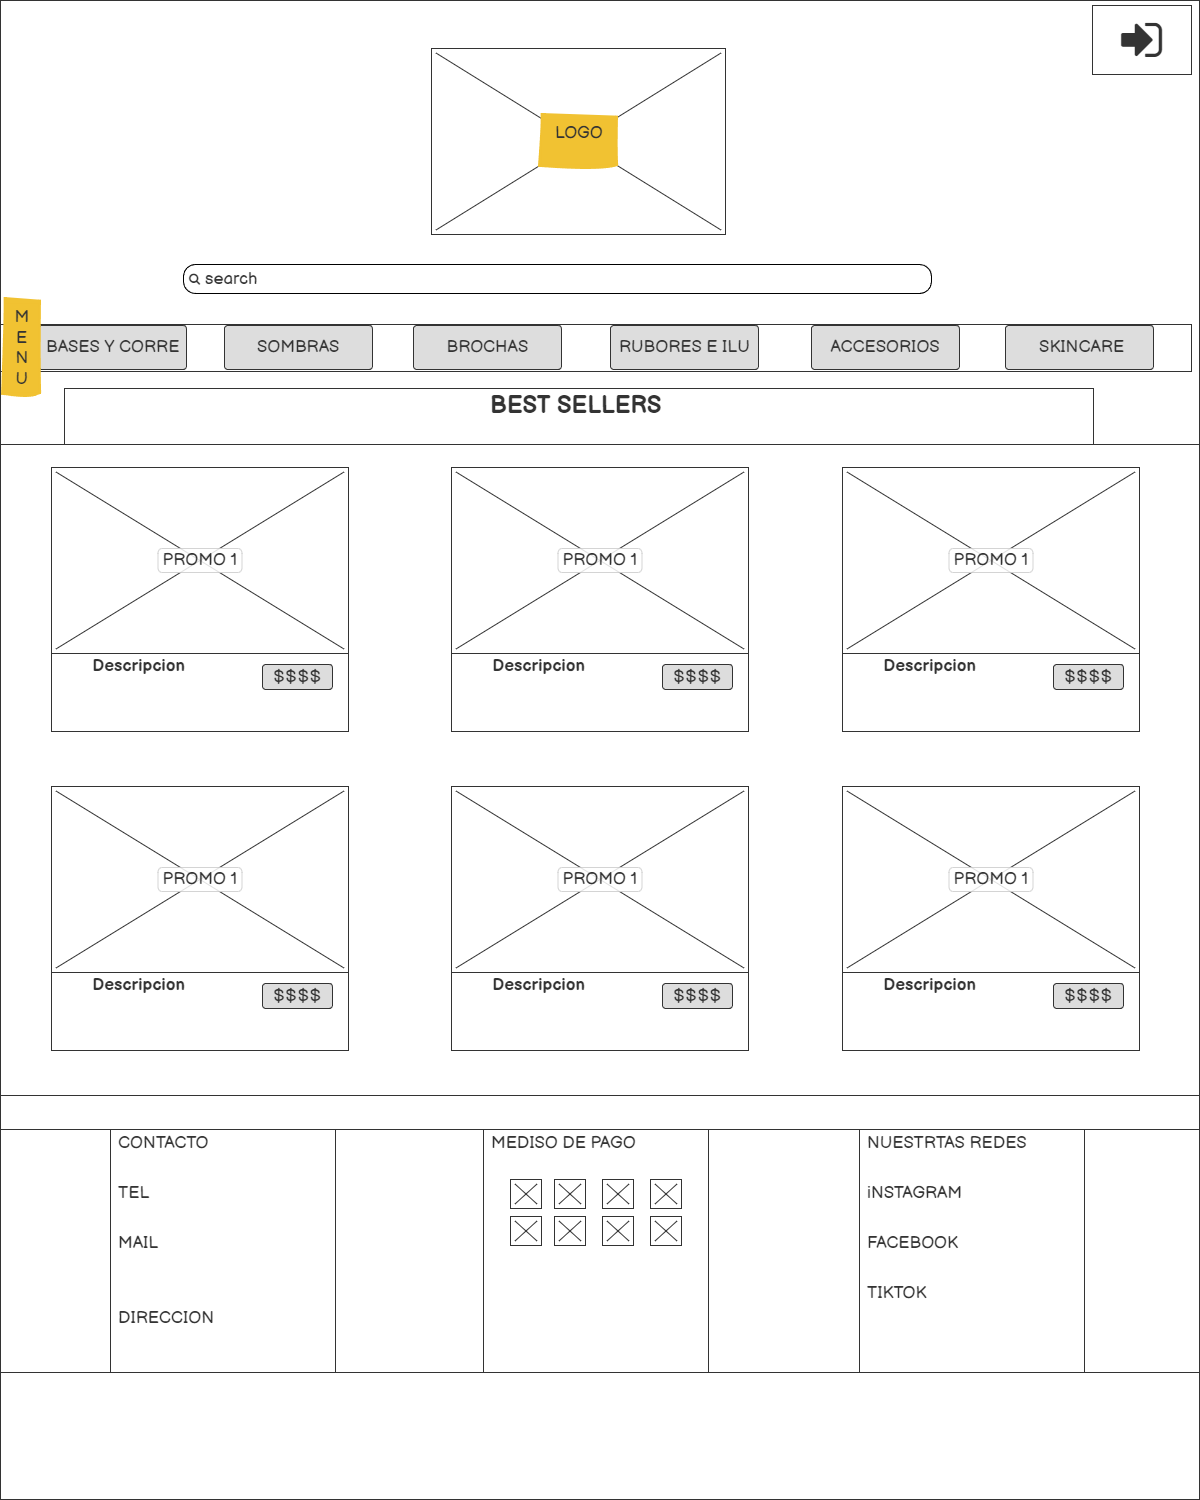
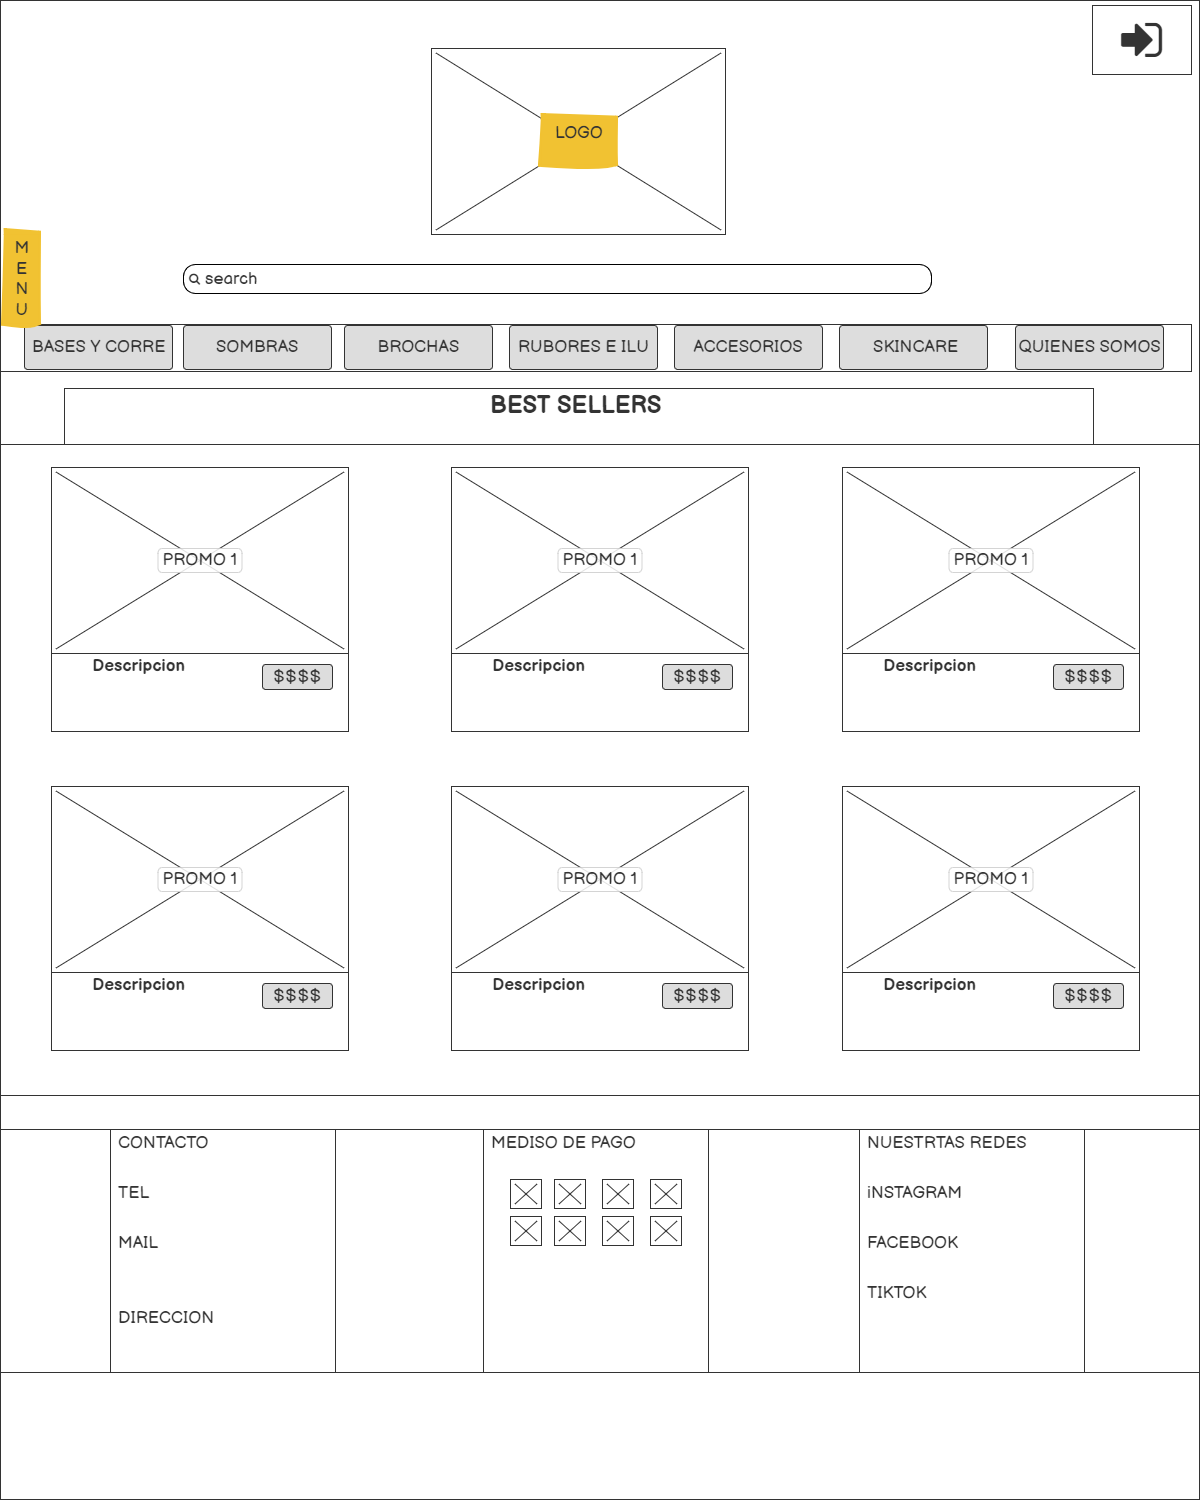
Se acomoda footer con copyright

Changed region(s): [[0.0, 0.1533, 0.9867, 0.276]]

diff --git a/pages/quienes_somos.html b/pages/quienes_somos.html
@@ -202,6 +202,10 @@
 											</ul>
 										</div>
 									</div>
+									<div class="firma" style="order: 4;">
+										&copy; <em id="date"></em>Javier Ibarlucea
+									</div>
+									
 								</footer>
 
 								<script src="https://cdn.jsdelivr.net/npm/bootstrap@5.2.0/dist/js/bootstrap.bundle.min.js" integrity="sha384-A3rJD856KowSb7dwlZdYEkO39Gagi7vIsF0jrRAoQmDKKtQBHUuLZ9AsSv4jD4Xa" crossorigin="anonymous"></script>

diff --git a/pages/bases_y_correctores.html b/pages/bases_y_correctores.html
@@ -228,6 +228,9 @@
 											</ul>
 										</div>
 									</div>
+									<div class="firma" style="order: 4;">
+										&copy; <em id="date"></em>Javier Ibarlucea
+									</div>
 								</footer>
 
 								<script src="https://cdn.jsdelivr.net/npm/bootstrap@5.2.0/dist/js/bootstrap.bundle.min.js" integrity="sha384-A3rJD856KowSb7dwlZdYEkO39Gagi7vIsF0jrRAoQmDKKtQBHUuLZ9AsSv4jD4Xa" crossorigin="anonymous"></script>

diff --git a/pages/accesorios.html b/pages/accesorios.html
@@ -224,6 +224,9 @@
 										</ul>
 									</div>
 								</div>
+								<div class="firma" style="order: 4;">
+										&copy; <em id="date"></em>Javier Ibarlucea
+									</div>
 							</footer>
 
 							<script src="https://cdn.jsdelivr.net/npm/bootstrap@5.2.0/dist/js/bootstrap.bundle.min.js" integrity="sha384-A3rJD856KowSb7dwlZdYEkO39Gagi7vIsF0jrRAoQmDKKtQBHUuLZ9AsSv4jD4Xa" crossorigin="anonymous"></script>

diff --git a/pages/rubores_e_iluminadores.html b/pages/rubores_e_iluminadores.html
@@ -222,6 +222,9 @@
 										</ul>
 									</div>
 								</div>
+								<div class="firma" style="order: 4;">
+										&copy; <em id="date"></em>Javier Ibarlucea
+									</div>
 							</footer>
 
 							<script src="https://cdn.jsdelivr.net/npm/bootstrap@5.2.0/dist/js/bootstrap.bundle.min.js" integrity="sha384-A3rJD856KowSb7dwlZdYEkO39Gagi7vIsF0jrRAoQmDKKtQBHUuLZ9AsSv4jD4Xa" crossorigin="anonymous"></script>

diff --git a/pages/skincare.html b/pages/skincare.html
@@ -222,6 +222,9 @@
 										</ul>
 									</div>
 								</div>
+								<div class="firma" style="order: 4;">
+										&copy; <em id="date"></em>Javier Ibarlucea
+									</div>
 							</footer>
 
 							<script src="https://cdn.jsdelivr.net/npm/bootstrap@5.2.0/dist/js/bootstrap.bundle.min.js" integrity="sha384-A3rJD856KowSb7dwlZdYEkO39Gagi7vIsF0jrRAoQmDKKtQBHUuLZ9AsSv4jD4Xa" crossorigin="anonymous"></script>

diff --git a/pages/sombras.html b/pages/sombras.html
@@ -226,6 +226,9 @@
 										</ul>
 									</div>
 								</div>
+								<div class="firma" style="order: 4;">
+										&copy; <em id="date"></em>Javier Ibarlucea
+									</div>
 							</footer>
 
 							<script src="https://cdn.jsdelivr.net/npm/bootstrap@5.2.0/dist/js/bootstrap.bundle.min.js" integrity="sha384-A3rJD856KowSb7dwlZdYEkO39Gagi7vIsF0jrRAoQmDKKtQBHUuLZ9AsSv4jD4Xa" crossorigin="anonymous"></script>

diff --git a/index.html b/index.html
@@ -253,6 +253,9 @@
 									</ul>
 								</div>
 							</div>
+							<div class="firma" style="order: 4;">
+										&copy; <em id="date"></em>Javier Ibarlucea
+									</div>
 						</footer>
 
 						<script src="https://cdn.jsdelivr.net/npm/bootstrap@5.2.0/dist/js/bootstrap.bundle.min.js" integrity="sha384-A3rJD856KowSb7dwlZdYEkO39Gagi7vIsF0jrRAoQmDKKtQBHUuLZ9AsSv4jD4Xa" crossorigin="anonymous"></script>

diff --git a/pages/brochas.html b/pages/brochas.html
@@ -239,6 +239,9 @@
 									</ul>
 								</div>
 							</div>
+							<div class="firma" style="order: 4;">
+										&copy; <em id="date"></em>Javier Ibarlucea
+									</div>
 						</footer>
 
 						<script src="https://cdn.jsdelivr.net/npm/bootstrap@5.2.0/dist/js/bootstrap.bundle.min.js" integrity="sha384-A3rJD856KowSb7dwlZdYEkO39Gagi7vIsF0jrRAoQmDKKtQBHUuLZ9AsSv4jD4Xa" crossorigin="anonymous"></script>

diff --git a/styles/estilo.scss b/styles/estilo.scss
@@ -9,6 +9,11 @@ h2{
   display: flex;
   justify-content: center;
 }
+.firma{
+  text-align: center;
+  font-weight: bold;
+
+}
 .menu_mobil{
   display: none;
 }

diff --git a/styles/estilo.css b/styles/estilo.css
@@ -10,6 +10,11 @@ h2 {
   justify-content: center;
 }
 
+.firma {
+  text-align: center;
+  font-weight: bold;
+}
+
 .menu_mobil {
   display: none;
 }
